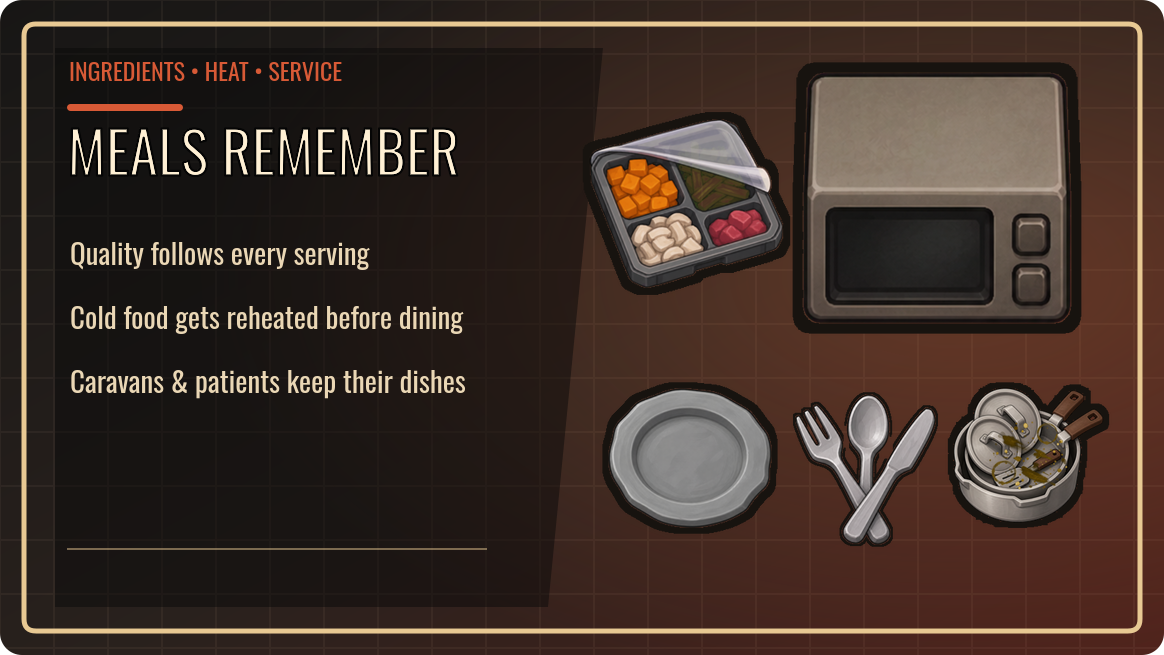
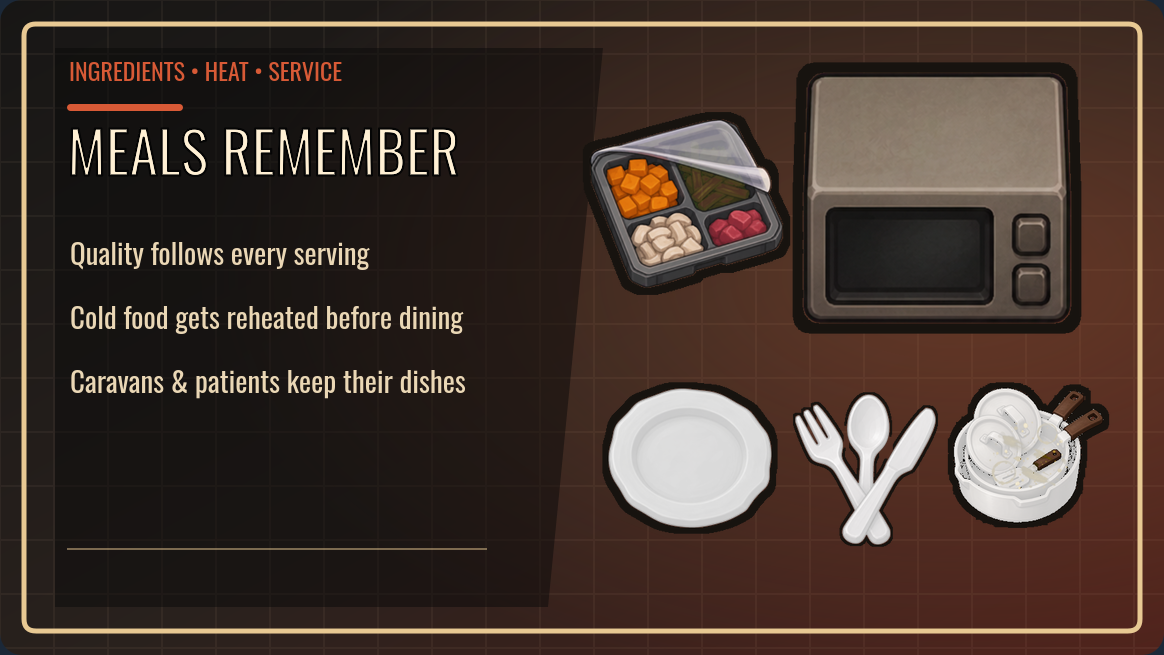
fix(workshop): matte feature card corners

diff --git a/tests/ImmersiveChefs.Tests/WorkshopDescriptionTests.cs b/tests/ImmersiveChefs.Tests/WorkshopDescriptionTests.cs
@@ -309,8 +309,11 @@ public sealed class WorkshopDescriptionTests
         }
 
         var manifest = new JavaScriptSerializer().Deserialize<PresentationManifest>(File.ReadAllText(manifestPath));
+        var featureCardTemplate = File.ReadAllText(Path.Combine(root, "release", "templates", "workshop", "feature-card.svg"));
         Assert.That(manifest, Is.Not.Null);
         Assert.That(manifest!.schema, Is.EqualTo("ImmersiveChefs/WorkshopPresentation/v1"));
+        Assert.That(featureCardTemplate, Does.Contain("Steam Workshop page background observed 2026-08-14: #1b2838"),
+            "The versioned card template must retain the measured Steam matte and observation date.");
         Assert.That(manifest.carouselCards, Is.EqualTo(new[] { "kitchenware", "teamwork", "meals", "colony", "compatibility" }));
         Assert.That(manifest.cards, Has.Exactly(6).Items);
         Assert.That(manifest.cards.Select(card => card.token), Is.Unique);
@@ -327,8 +330,16 @@ public sealed class WorkshopDescriptionTests
                 Assert.That(new FileInfo(path).Length, Is.LessThanOrEqualTo(2 * 1024 * 1024), card.token + " Steam payload");
                 Assert.That(card.alt, Is.Not.Null.And.Not.Empty, card.token + " accessibility copy");
                 using var bitmap = new Bitmap(path);
-                Assert.That(bitmap.GetPixel(0, 0).A, Is.Zero,
-                    card.token + " must retain transparent rounded corners.");
+                var steamMatte = Color.FromArgb(255, 27, 40, 56).ToArgb();
+                Assert.That(new[]
+                    {
+                        bitmap.GetPixel(0, 0).ToArgb(),
+                        bitmap.GetPixel(bitmap.Width - 1, 0).ToArgb(),
+                        bitmap.GetPixel(0, bitmap.Height - 1).ToArgb(),
+                        bitmap.GetPixel(bitmap.Width - 1, bitmap.Height - 1).ToArgb()
+                    },
+                    Is.All.EqualTo(steamMatte),
+                    card.token + " corners must be composited to Steam Workshop #1b2838 rather than alpha-matted white.");
                 Assert.That(card.lines.All(line => !line.TrimStart().StartsWith("✓", StringComparison.Ordinal) &&
                                                   !line.TrimStart().StartsWith("✔", StringComparison.Ordinal) &&
                                                   !line.TrimStart().StartsWith("☑", StringComparison.Ordinal)),
